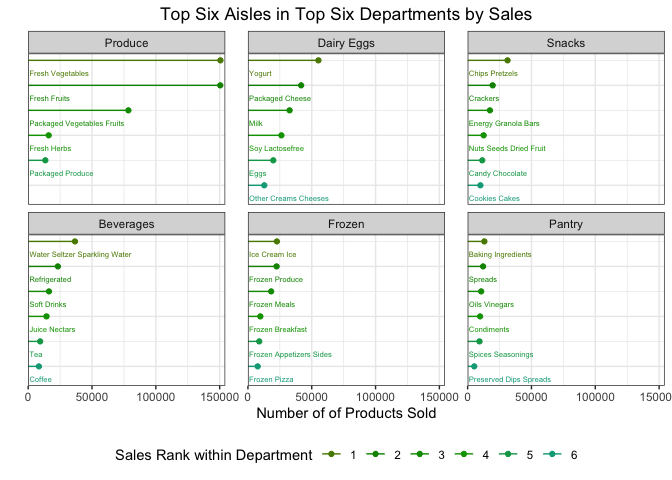
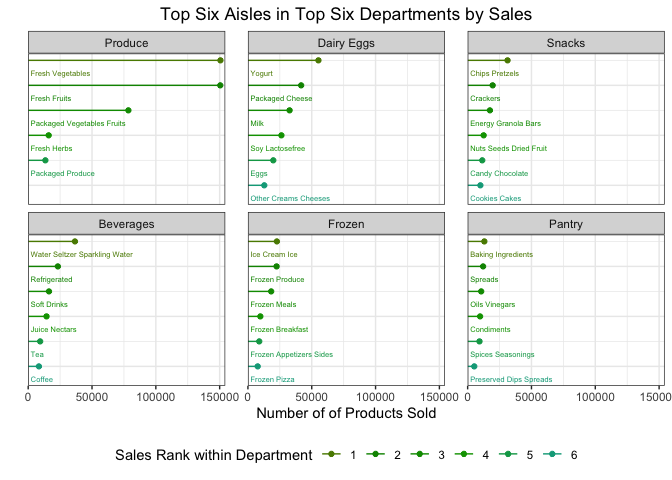
comments and finishing touches

diff --git a/pubh7462_hw3_wojan.md b/pubh7462_hw3_wojan.md
@@ -13,10 +13,9 @@ instacart <- read_csv("./data/instacart.csv")
 ### Problem 3.1
 
 ``` r
-sample <- as.numeric(sample(levels(factor(instacart$order_id)), 20))
-
+## Draw table from data
 instacart %>%
-  filter(order_id %in% sample) %>%
+  ## Group by order and calculate order chracteristics
   group_by(order_id) %>%
   summarise("Days Since Last Order" = days_since_prior_order,
             "Number of Items" = n(),
@@ -24,13 +23,17 @@ instacart %>%
             "Number of Departments" = length(unique(department_id)),
             "Order Number" = order_number,
             "Percent of Items Reordered" = sum(reordered)/n()) %>%
+  ## Filter out duplicates and ungroup
   unique() %>%
   ungroup() %>%
+  ## Change data from wide to long; collecting each order variable into a single column 
   pivot_longer(cols = -order_id, names_to = "variable", values_to = "value") %>%
+  ## Calculate summary statistics across all orders
   group_by(variable) %>%
   summarise(Mean = mean(value),
             Median = median(value),
             S.D. = sd(value)) %>%
+  ## Rename column and create titled table
   rename("Order Characteristic" = variable) %>%
   gt() %>%
   tab_header(title = "Summary of Orders") %>%
@@ -54,29 +57,29 @@ instacart %>%
   </thead>
   <tbody style="border-top-style: solid; border-top-width: 2px; border-top-color: #D3D3D3; border-bottom-style: solid; border-bottom-width: 2px; border-bottom-color: #D3D3D3;">
     <tr><td style="padding-top: 8px; padding-bottom: 8px; padding-left: 5px; padding-right: 5px; margin: 10px; border-top-style: solid; border-top-width: 1px; border-top-color: #D3D3D3; border-left-style: none; border-left-width: 1px; border-left-color: #D3D3D3; border-right-style: none; border-right-width: 1px; border-right-color: #D3D3D3; vertical-align: middle; overflow-x: hidden; text-align: left;">Days Since Last Order</td>
-<td style="padding-top: 8px; padding-bottom: 8px; padding-left: 5px; padding-right: 5px; margin: 10px; border-top-style: solid; border-top-width: 1px; border-top-color: #D3D3D3; border-left-style: none; border-left-width: 1px; border-left-color: #D3D3D3; border-right-style: none; border-right-width: 1px; border-right-color: #D3D3D3; vertical-align: middle; overflow-x: hidden; text-align: right; font-variant-numeric: tabular-nums;">18.6500</td>
-<td style="padding-top: 8px; padding-bottom: 8px; padding-left: 5px; padding-right: 5px; margin: 10px; border-top-style: solid; border-top-width: 1px; border-top-color: #D3D3D3; border-left-style: none; border-left-width: 1px; border-left-color: #D3D3D3; border-right-style: none; border-right-width: 1px; border-right-color: #D3D3D3; vertical-align: middle; overflow-x: hidden; text-align: right; font-variant-numeric: tabular-nums;">21.0000</td>
-<td style="padding-top: 8px; padding-bottom: 8px; padding-left: 5px; padding-right: 5px; margin: 10px; border-top-style: solid; border-top-width: 1px; border-top-color: #D3D3D3; border-left-style: none; border-left-width: 1px; border-left-color: #D3D3D3; border-right-style: none; border-right-width: 1px; border-right-color: #D3D3D3; vertical-align: middle; overflow-x: hidden; text-align: right; font-variant-numeric: tabular-nums;">11.8600</td></tr>
+<td style="padding-top: 8px; padding-bottom: 8px; padding-left: 5px; padding-right: 5px; margin: 10px; border-top-style: solid; border-top-width: 1px; border-top-color: #D3D3D3; border-left-style: none; border-left-width: 1px; border-left-color: #D3D3D3; border-right-style: none; border-right-width: 1px; border-right-color: #D3D3D3; vertical-align: middle; overflow-x: hidden; text-align: right; font-variant-numeric: tabular-nums;">17.0499</td>
+<td style="padding-top: 8px; padding-bottom: 8px; padding-left: 5px; padding-right: 5px; margin: 10px; border-top-style: solid; border-top-width: 1px; border-top-color: #D3D3D3; border-left-style: none; border-left-width: 1px; border-left-color: #D3D3D3; border-right-style: none; border-right-width: 1px; border-right-color: #D3D3D3; vertical-align: middle; overflow-x: hidden; text-align: right; font-variant-numeric: tabular-nums;">15.0000</td>
+<td style="padding-top: 8px; padding-bottom: 8px; padding-left: 5px; padding-right: 5px; margin: 10px; border-top-style: solid; border-top-width: 1px; border-top-color: #D3D3D3; border-left-style: none; border-left-width: 1px; border-left-color: #D3D3D3; border-right-style: none; border-right-width: 1px; border-right-color: #D3D3D3; vertical-align: middle; overflow-x: hidden; text-align: right; font-variant-numeric: tabular-nums;">10.6768</td></tr>
     <tr><td style="padding-top: 8px; padding-bottom: 8px; padding-left: 5px; padding-right: 5px; margin: 10px; border-top-style: solid; border-top-width: 1px; border-top-color: #D3D3D3; border-left-style: none; border-left-width: 1px; border-left-color: #D3D3D3; border-right-style: none; border-right-width: 1px; border-right-color: #D3D3D3; vertical-align: middle; overflow-x: hidden; text-align: left;">Number of Aisles</td>
-<td style="padding-top: 8px; padding-bottom: 8px; padding-left: 5px; padding-right: 5px; margin: 10px; border-top-style: solid; border-top-width: 1px; border-top-color: #D3D3D3; border-left-style: none; border-left-width: 1px; border-left-color: #D3D3D3; border-right-style: none; border-right-width: 1px; border-right-color: #D3D3D3; vertical-align: middle; overflow-x: hidden; text-align: right; font-variant-numeric: tabular-nums;">7.4000</td>
-<td style="padding-top: 8px; padding-bottom: 8px; padding-left: 5px; padding-right: 5px; margin: 10px; border-top-style: solid; border-top-width: 1px; border-top-color: #D3D3D3; border-left-style: none; border-left-width: 1px; border-left-color: #D3D3D3; border-right-style: none; border-right-width: 1px; border-right-color: #D3D3D3; vertical-align: middle; overflow-x: hidden; text-align: right; font-variant-numeric: tabular-nums;">6.5000</td>
-<td style="padding-top: 8px; padding-bottom: 8px; padding-left: 5px; padding-right: 5px; margin: 10px; border-top-style: solid; border-top-width: 1px; border-top-color: #D3D3D3; border-left-style: none; border-left-width: 1px; border-left-color: #D3D3D3; border-right-style: none; border-right-width: 1px; border-right-color: #D3D3D3; vertical-align: middle; overflow-x: hidden; text-align: right; font-variant-numeric: tabular-nums;">5.3153</td></tr>
+<td style="padding-top: 8px; padding-bottom: 8px; padding-left: 5px; padding-right: 5px; margin: 10px; border-top-style: solid; border-top-width: 1px; border-top-color: #D3D3D3; border-left-style: none; border-left-width: 1px; border-left-color: #D3D3D3; border-right-style: none; border-right-width: 1px; border-right-color: #D3D3D3; vertical-align: middle; overflow-x: hidden; text-align: right; font-variant-numeric: tabular-nums;">7.5511</td>
+<td style="padding-top: 8px; padding-bottom: 8px; padding-left: 5px; padding-right: 5px; margin: 10px; border-top-style: solid; border-top-width: 1px; border-top-color: #D3D3D3; border-left-style: none; border-left-width: 1px; border-left-color: #D3D3D3; border-right-style: none; border-right-width: 1px; border-right-color: #D3D3D3; vertical-align: middle; overflow-x: hidden; text-align: right; font-variant-numeric: tabular-nums;">7.0000</td>
+<td style="padding-top: 8px; padding-bottom: 8px; padding-left: 5px; padding-right: 5px; margin: 10px; border-top-style: solid; border-top-width: 1px; border-top-color: #D3D3D3; border-left-style: none; border-left-width: 1px; border-left-color: #D3D3D3; border-right-style: none; border-right-width: 1px; border-right-color: #D3D3D3; vertical-align: middle; overflow-x: hidden; text-align: right; font-variant-numeric: tabular-nums;">4.9996</td></tr>
     <tr><td style="padding-top: 8px; padding-bottom: 8px; padding-left: 5px; padding-right: 5px; margin: 10px; border-top-style: solid; border-top-width: 1px; border-top-color: #D3D3D3; border-left-style: none; border-left-width: 1px; border-left-color: #D3D3D3; border-right-style: none; border-right-width: 1px; border-right-color: #D3D3D3; vertical-align: middle; overflow-x: hidden; text-align: left;">Number of Departments</td>
-<td style="padding-top: 8px; padding-bottom: 8px; padding-left: 5px; padding-right: 5px; margin: 10px; border-top-style: solid; border-top-width: 1px; border-top-color: #D3D3D3; border-left-style: none; border-left-width: 1px; border-left-color: #D3D3D3; border-right-style: none; border-right-width: 1px; border-right-color: #D3D3D3; vertical-align: middle; overflow-x: hidden; text-align: right; font-variant-numeric: tabular-nums;">4.3500</td>
-<td style="padding-top: 8px; padding-bottom: 8px; padding-left: 5px; padding-right: 5px; margin: 10px; border-top-style: solid; border-top-width: 1px; border-top-color: #D3D3D3; border-left-style: none; border-left-width: 1px; border-left-color: #D3D3D3; border-right-style: none; border-right-width: 1px; border-right-color: #D3D3D3; vertical-align: middle; overflow-x: hidden; text-align: right; font-variant-numeric: tabular-nums;">4.0000</td>
-<td style="padding-top: 8px; padding-bottom: 8px; padding-left: 5px; padding-right: 5px; margin: 10px; border-top-style: solid; border-top-width: 1px; border-top-color: #D3D3D3; border-left-style: none; border-left-width: 1px; border-left-color: #D3D3D3; border-right-style: none; border-right-width: 1px; border-right-color: #D3D3D3; vertical-align: middle; overflow-x: hidden; text-align: right; font-variant-numeric: tabular-nums;">2.7004</td></tr>
+<td style="padding-top: 8px; padding-bottom: 8px; padding-left: 5px; padding-right: 5px; margin: 10px; border-top-style: solid; border-top-width: 1px; border-top-color: #D3D3D3; border-left-style: none; border-left-width: 1px; border-left-color: #D3D3D3; border-right-style: none; border-right-width: 1px; border-right-color: #D3D3D3; vertical-align: middle; overflow-x: hidden; text-align: right; font-variant-numeric: tabular-nums;">4.8807</td>
+<td style="padding-top: 8px; padding-bottom: 8px; padding-left: 5px; padding-right: 5px; margin: 10px; border-top-style: solid; border-top-width: 1px; border-top-color: #D3D3D3; border-left-style: none; border-left-width: 1px; border-left-color: #D3D3D3; border-right-style: none; border-right-width: 1px; border-right-color: #D3D3D3; vertical-align: middle; overflow-x: hidden; text-align: right; font-variant-numeric: tabular-nums;">5.0000</td>
+<td style="padding-top: 8px; padding-bottom: 8px; padding-left: 5px; padding-right: 5px; margin: 10px; border-top-style: solid; border-top-width: 1px; border-top-color: #D3D3D3; border-left-style: none; border-left-width: 1px; border-left-color: #D3D3D3; border-right-style: none; border-right-width: 1px; border-right-color: #D3D3D3; vertical-align: middle; overflow-x: hidden; text-align: right; font-variant-numeric: tabular-nums;">2.6427</td></tr>
     <tr><td style="padding-top: 8px; padding-bottom: 8px; padding-left: 5px; padding-right: 5px; margin: 10px; border-top-style: solid; border-top-width: 1px; border-top-color: #D3D3D3; border-left-style: none; border-left-width: 1px; border-left-color: #D3D3D3; border-right-style: none; border-right-width: 1px; border-right-color: #D3D3D3; vertical-align: middle; overflow-x: hidden; text-align: left;">Number of Items</td>
-<td style="padding-top: 8px; padding-bottom: 8px; padding-left: 5px; padding-right: 5px; margin: 10px; border-top-style: solid; border-top-width: 1px; border-top-color: #D3D3D3; border-left-style: none; border-left-width: 1px; border-left-color: #D3D3D3; border-right-style: none; border-right-width: 1px; border-right-color: #D3D3D3; vertical-align: middle; overflow-x: hidden; text-align: right; font-variant-numeric: tabular-nums;">10.5500</td>
-<td style="padding-top: 8px; padding-bottom: 8px; padding-left: 5px; padding-right: 5px; margin: 10px; border-top-style: solid; border-top-width: 1px; border-top-color: #D3D3D3; border-left-style: none; border-left-width: 1px; border-left-color: #D3D3D3; border-right-style: none; border-right-width: 1px; border-right-color: #D3D3D3; vertical-align: middle; overflow-x: hidden; text-align: right; font-variant-numeric: tabular-nums;">10.0000</td>
-<td style="padding-top: 8px; padding-bottom: 8px; padding-left: 5px; padding-right: 5px; margin: 10px; border-top-style: solid; border-top-width: 1px; border-top-color: #D3D3D3; border-left-style: none; border-left-width: 1px; border-left-color: #D3D3D3; border-right-style: none; border-right-width: 1px; border-right-color: #D3D3D3; vertical-align: middle; overflow-x: hidden; text-align: right; font-variant-numeric: tabular-nums;">7.5357</td></tr>
+<td style="padding-top: 8px; padding-bottom: 8px; padding-left: 5px; padding-right: 5px; margin: 10px; border-top-style: solid; border-top-width: 1px; border-top-color: #D3D3D3; border-left-style: none; border-left-width: 1px; border-left-color: #D3D3D3; border-right-style: none; border-right-width: 1px; border-right-color: #D3D3D3; vertical-align: middle; overflow-x: hidden; text-align: right; font-variant-numeric: tabular-nums;">10.5528</td>
+<td style="padding-top: 8px; padding-bottom: 8px; padding-left: 5px; padding-right: 5px; margin: 10px; border-top-style: solid; border-top-width: 1px; border-top-color: #D3D3D3; border-left-style: none; border-left-width: 1px; border-left-color: #D3D3D3; border-right-style: none; border-right-width: 1px; border-right-color: #D3D3D3; vertical-align: middle; overflow-x: hidden; text-align: right; font-variant-numeric: tabular-nums;">9.0000</td>
+<td style="padding-top: 8px; padding-bottom: 8px; padding-left: 5px; padding-right: 5px; margin: 10px; border-top-style: solid; border-top-width: 1px; border-top-color: #D3D3D3; border-left-style: none; border-left-width: 1px; border-left-color: #D3D3D3; border-right-style: none; border-right-width: 1px; border-right-color: #D3D3D3; vertical-align: middle; overflow-x: hidden; text-align: right; font-variant-numeric: tabular-nums;">7.9328</td></tr>
     <tr><td style="padding-top: 8px; padding-bottom: 8px; padding-left: 5px; padding-right: 5px; margin: 10px; border-top-style: solid; border-top-width: 1px; border-top-color: #D3D3D3; border-left-style: none; border-left-width: 1px; border-left-color: #D3D3D3; border-right-style: none; border-right-width: 1px; border-right-color: #D3D3D3; vertical-align: middle; overflow-x: hidden; text-align: left;">Order Number</td>
-<td style="padding-top: 8px; padding-bottom: 8px; padding-left: 5px; padding-right: 5px; margin: 10px; border-top-style: solid; border-top-width: 1px; border-top-color: #D3D3D3; border-left-style: none; border-left-width: 1px; border-left-color: #D3D3D3; border-right-style: none; border-right-width: 1px; border-right-color: #D3D3D3; vertical-align: middle; overflow-x: hidden; text-align: right; font-variant-numeric: tabular-nums;">21.7500</td>
-<td style="padding-top: 8px; padding-bottom: 8px; padding-left: 5px; padding-right: 5px; margin: 10px; border-top-style: solid; border-top-width: 1px; border-top-color: #D3D3D3; border-left-style: none; border-left-width: 1px; border-left-color: #D3D3D3; border-right-style: none; border-right-width: 1px; border-right-color: #D3D3D3; vertical-align: middle; overflow-x: hidden; text-align: right; font-variant-numeric: tabular-nums;">13.0000</td>
-<td style="padding-top: 8px; padding-bottom: 8px; padding-left: 5px; padding-right: 5px; margin: 10px; border-top-style: solid; border-top-width: 1px; border-top-color: #D3D3D3; border-left-style: none; border-left-width: 1px; border-left-color: #D3D3D3; border-right-style: none; border-right-width: 1px; border-right-color: #D3D3D3; vertical-align: middle; overflow-x: hidden; text-align: right; font-variant-numeric: tabular-nums;">22.5175</td></tr>
+<td style="padding-top: 8px; padding-bottom: 8px; padding-left: 5px; padding-right: 5px; margin: 10px; border-top-style: solid; border-top-width: 1px; border-top-color: #D3D3D3; border-left-style: none; border-left-width: 1px; border-left-color: #D3D3D3; border-right-style: none; border-right-width: 1px; border-right-color: #D3D3D3; vertical-align: middle; overflow-x: hidden; text-align: right; font-variant-numeric: tabular-nums;">16.6039</td>
+<td style="padding-top: 8px; padding-bottom: 8px; padding-left: 5px; padding-right: 5px; margin: 10px; border-top-style: solid; border-top-width: 1px; border-top-color: #D3D3D3; border-left-style: none; border-left-width: 1px; border-left-color: #D3D3D3; border-right-style: none; border-right-width: 1px; border-right-color: #D3D3D3; vertical-align: middle; overflow-x: hidden; text-align: right; font-variant-numeric: tabular-nums;">10.0000</td>
+<td style="padding-top: 8px; padding-bottom: 8px; padding-left: 5px; padding-right: 5px; margin: 10px; border-top-style: solid; border-top-width: 1px; border-top-color: #D3D3D3; border-left-style: none; border-left-width: 1px; border-left-color: #D3D3D3; border-right-style: none; border-right-width: 1px; border-right-color: #D3D3D3; vertical-align: middle; overflow-x: hidden; text-align: right; font-variant-numeric: tabular-nums;">16.6611</td></tr>
     <tr><td style="padding-top: 8px; padding-bottom: 8px; padding-left: 5px; padding-right: 5px; margin: 10px; border-top-style: solid; border-top-width: 1px; border-top-color: #D3D3D3; border-left-style: none; border-left-width: 1px; border-left-color: #D3D3D3; border-right-style: none; border-right-width: 1px; border-right-color: #D3D3D3; vertical-align: middle; overflow-x: hidden; text-align: left;">Percent of Items Reordered</td>
-<td style="padding-top: 8px; padding-bottom: 8px; padding-left: 5px; padding-right: 5px; margin: 10px; border-top-style: solid; border-top-width: 1px; border-top-color: #D3D3D3; border-left-style: none; border-left-width: 1px; border-left-color: #D3D3D3; border-right-style: none; border-right-width: 1px; border-right-color: #D3D3D3; vertical-align: middle; overflow-x: hidden; text-align: right; font-variant-numeric: tabular-nums;">0.6739</td>
-<td style="padding-top: 8px; padding-bottom: 8px; padding-left: 5px; padding-right: 5px; margin: 10px; border-top-style: solid; border-top-width: 1px; border-top-color: #D3D3D3; border-left-style: none; border-left-width: 1px; border-left-color: #D3D3D3; border-right-style: none; border-right-width: 1px; border-right-color: #D3D3D3; vertical-align: middle; overflow-x: hidden; text-align: right; font-variant-numeric: tabular-nums;">0.6944</td>
-<td style="padding-top: 8px; padding-bottom: 8px; padding-left: 5px; padding-right: 5px; margin: 10px; border-top-style: solid; border-top-width: 1px; border-top-color: #D3D3D3; border-left-style: none; border-left-width: 1px; border-left-color: #D3D3D3; border-right-style: none; border-right-width: 1px; border-right-color: #D3D3D3; vertical-align: middle; overflow-x: hidden; text-align: right; font-variant-numeric: tabular-nums;">0.3088</td></tr>
+<td style="padding-top: 8px; padding-bottom: 8px; padding-left: 5px; padding-right: 5px; margin: 10px; border-top-style: solid; border-top-width: 1px; border-top-color: #D3D3D3; border-left-style: none; border-left-width: 1px; border-left-color: #D3D3D3; border-right-style: none; border-right-width: 1px; border-right-color: #D3D3D3; vertical-align: middle; overflow-x: hidden; text-align: right; font-variant-numeric: tabular-nums;">0.6025</td>
+<td style="padding-top: 8px; padding-bottom: 8px; padding-left: 5px; padding-right: 5px; margin: 10px; border-top-style: solid; border-top-width: 1px; border-top-color: #D3D3D3; border-left-style: none; border-left-width: 1px; border-left-color: #D3D3D3; border-right-style: none; border-right-width: 1px; border-right-color: #D3D3D3; vertical-align: middle; overflow-x: hidden; text-align: right; font-variant-numeric: tabular-nums;">0.6316</td>
+<td style="padding-top: 8px; padding-bottom: 8px; padding-left: 5px; padding-right: 5px; margin: 10px; border-top-style: solid; border-top-width: 1px; border-top-color: #D3D3D3; border-left-style: none; border-left-width: 1px; border-left-color: #D3D3D3; border-right-style: none; border-right-width: 1px; border-right-color: #D3D3D3; vertical-align: middle; overflow-x: hidden; text-align: right; font-variant-numeric: tabular-nums;">0.3068</td></tr>
   </tbody>
   
   
@@ -85,15 +88,19 @@ instacart %>%
 ### Problem 3.2
 
 ``` r
+## Draw plot from data
 instacart %>%
+  ## Determine number of sales from each aisle, and order the aisles by that value
   count(aisle) %>%
-  ungroup() %>%
   mutate(aisle = str_to_title(aisle),
          aisle = factor(aisle),
          aisle = fct_reorder(aisle, n)) %>%
+  ## Draw plot
   ggplot() +
+  ## Draw "lollipop" plot of sales by aisle
   geom_point(aes(x = n, y = aisle, color = n)) +
   geom_segment(aes(x = 0, xend = n, y = aisle, yend = aisle, color = n)) +
+  ## Set visual style of plot
   scale_color_continuous(name = "Total Number of of Products Sold") +
   scale_x_continuous(expand = expansion(mult = c(0, 0.025))) +
   labs(x = "Total Number of of Products Sold",
@@ -107,24 +114,34 @@ instacart %>%
 ### Problem 3.3
 
 ``` r
+## Draw plot from data
 instacart %>%
+  ## Determine number of sales by aisle and department
   count(department, aisle) %>%
+  ## Reformat aisle/dept names, order department factor by number of sales
   mutate(aisle = str_to_title(aisle),
          department = str_to_title(department),
          department = factor(department),
          department = fct_reorder(.f = department, .x = n, .fun = sum, .desc = TRUE)) %>%
+  ## Take only the top 6 departments by sales
   filter(department %in% levels(department)[1:6]) %>%
+  ## Sort aisles by number of sales within department
   group_by(department) %>%
   arrange(desc(n), .by_group = TRUE) %>%
   mutate(aisle_ord = row_number()) %>%
   ungroup() %>%
+  ## Take only the top 6 aisles by sales for each department
   filter(aisle_ord < 7) %>%
+  ## Draw plot
   ggplot() +
+  ## Draw labelled lollipops for each aisle
   geom_point(aes(x = n, y = aisle_ord, color = factor(aisle_ord))) +
-  geom_text(aes(x = 1000, y = aisle_ord + 0.5, label = aisle, color = factor(aisle_ord)), 
+  geom_text(aes(x = 2000, y = aisle_ord + 0.5, label = aisle, color = factor(aisle_ord)), 
             size = 2, hjust = "inward") +
   geom_segment(aes(x = 0, xend = n, y = aisle_ord, yend = aisle_ord, color = factor(aisle_ord))) +
+  ## Separate plot into panels for each of 6 departments
   facet_wrap(vars(department)) +
+  ## Set visual style of plot
   scale_color_hue(h = c(100, 180), l = 50, c = 150,
                    name = "Sales Rank within Department") +
   scale_x_continuous(expand = expansion(mult = c(0, 0.025))) +
@@ -146,30 +163,42 @@ aisles sales-wise, they are ordered within the table by the total sales
 of only their top five products.
 
 ``` r
+## Create tibble of top 5 aisles, top 5 products, by sales
 aisle_products <- instacart %>%
+  ## Determine number of sales by product and aisle
   count(aisle, product_name) %>%
+  ## Order aisle factor by total sales
   mutate(aisle = str_to_title(aisle),
          aisle = factor(aisle),
          aisle = fct_reorder(.f = aisle, .x = n, .fun = sum, .desc = TRUE)) %>%
+  ## Take only the top 5 aisle by sales
   filter(aisle %in% levels(aisle)[1:5]) %>%
+  ## Sort the products by number of sales within aisles
   group_by(aisle) %>%
   arrange(desc(n), .by_group = TRUE) %>%
   mutate(product_ord = row_number()) %>%
+  ## Take only the top 5 products for each of 5 aisles
   filter(product_ord < 6) %>%
   ungroup() %>%
+  ## Reorder the aisle factor now by total sales only including each aisle's top 5 products
   mutate(aisle = factor(as.character(aisle)),
          aisle = fct_reorder(.f = aisle, .x = n, .fun = sum, .desc = TRUE)) %>%
   arrange(aisle, desc(n)) %>%
+  ## Make table better for visual presentation
   select(aisle, product_name, n) %>%
   rename(Product = product_name,
          Sales = n)
 
+## Determine highest value of sales among products
 max_sales <- max(aisle_products$Sales)
 
+## Draw table from aisle/product data
 aisle_products %>%
+  ## Group the table into subtabs for each aisle
   group_by(aisle) %>%
   gt() %>%
   tab_header(title = "Top 5 Products from Top 5 Aisles in Products Sold") %>%
+  ## Color sales tabs by amount
   data_color(columns = Sales,
              colors = scales::col_numeric(
                palette = c("white", "blue"),
